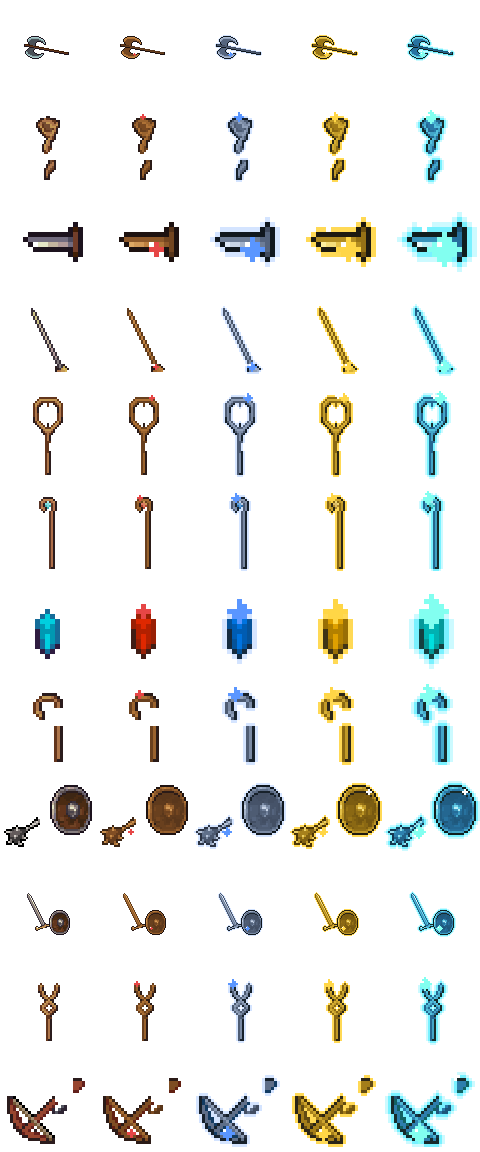
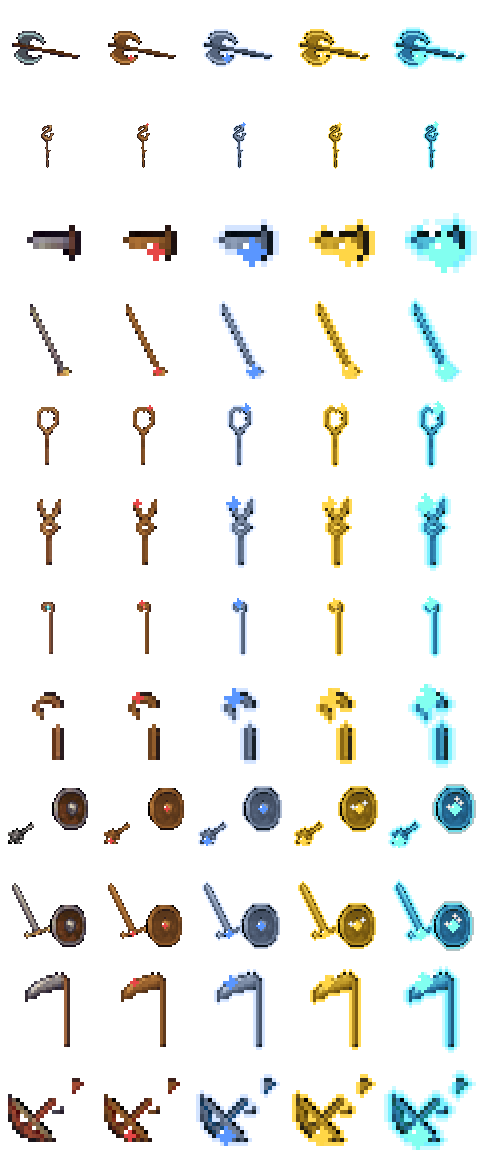
무기: 방패를 따로 떼어 안 돌게, 무기·방패 크기 축소, 마법 직업 무기 교체(구슬 하나뿐이던 수정 지팡이 → 지팡이 모양, 흑마법사 장식 지팡이, 소환사 낫, 연금술사 포크 지팡이)
Claude-Session: https://claude.ai/code/session_01HhJ2NoNCjk5kaA3GWL7UDs

diff --git a/public/index.html b/public/index.html
@@ -22,8 +22,8 @@
 html.big{--fs:17px;--fs-s:15px;--fs-h:18px;--fs-talk:19px}
 .jic{display:inline-block;width:1.5em;height:1.5em;vertical-align:middle;background:url(art/jobs.png?v=1) 0 0/1200% 100%;background-position:calc(var(--i)*100%/11) 0;image-rendering:pixelated}
 .big .jic{width:34px;height:34px}.wstep{display:flex;align-items:center;justify-content:space-between;gap:2px;margin-top:12px}.wstep>div{position:relative;display:flex;flex-direction:column;align-items:center;flex:1;padding:4px 0;border:2px solid transparent;border-radius:10px;opacity:.55}.wstep>div.done{opacity:.85}.wstep>div.on{opacity:1;border-color:var(--gold);background:rgba(255,184,77,.14)}.wstep .wic{width:58px;height:58px}.wstep b{font-size:11px}.wstep small{font-size:10px;opacity:.8}.wstep i{position:absolute;top:-8px;font-style:normal;font-size:10px;font-weight:800;background:var(--gold);color:#2b1b3a;border-radius:6px;padding:0 5px}.wstep i.nx{background:#9fd0ff}.wstep em{font-style:normal;opacity:.5}
-.wbg{background-image:url(art/weapons_big.png?v=1)!important}
-.wic{display:inline-block;width:96px;height:96px;background:url(art/weapons.png?v=2) 0 0/500% 1200%;background-position:calc(var(--t)*100%/4) calc(var(--r)*100%/11);image-rendering:pixelated;flex:none}
+.wbg{background-image:url(art/weapons_big.png?v=2)!important}
+.wic{display:inline-block;width:96px;height:96px;background:url(art/weapons_big.png?v=2) 0 0/500% 1200%;background-position:calc(var(--t)*100%/4) calc(var(--r)*100%/11);image-rendering:pixelated;flex:none}
 .sic{display:inline-block;width:26px;height:26px;vertical-align:middle;background:url(art/skills.png?v=2) 0 0/1500% 1200%;background-position:calc(var(--c)*100%/14) calc(var(--r)*100%/11);image-rendering:pixelated}
 .jgrid{display:grid;grid-template-columns:repeat(3,1fr);gap:6px}.jcard{display:flex;flex-direction:column;align-items:center;gap:2px;padding:8px 4px;border:2px solid var(--line,#5a4a78);border-radius:10px;background:transparent;color:inherit;font:inherit;text-align:center}.jcard .jic{width:32px;height:32px}.jcard b{font-size:13px}.jcard span{font-size:10px;opacity:.75;line-height:1.25}.jcard.on{border-color:#ffb84d;background:rgba(255,184,77,.18)}
 html.lowfx *,html.lowfx *::before,html.lowfx *::after{transition-duration:0s!important;animation-duration:0s!important}
@@ -1612,7 +1612,7 @@ const xJobGrid = sel => `<div class="jgrid">${Object.entries(XJ).map(([k, j]) =>
 /*XT*/const XT = {"warrior":[["차지",[["강타","d","fist"],["차지 베기","c","sword"],["대지 가르기","D","rock"],["분노의 일격","d","fire"],["극한 차지","c","bolt"]]],["근성",[["단단한 피부","P:def","shield"],["되받아치기","d","spear"],["불굴","P:hp","heart"],["피의 갈증","P:vamp","drop"],["전장의 포효","b","trumpet"]]],["도끼술",[["회전 베기","D","swirl"],["투척 도끼","d","axe"],["파쇄","W","hammer"],["학살자","d","skull"],["폭풍 도끼","D","cloud"]]]],"black":[["화염",[["불꽃탄","d","fire"],["화염구","D","fireball"],["불씨","F","ember"],["지옥불","D","skull"],["메테오","D","rock"]]],["냉기와 번개",[["서리 화살","d","arrow"],["얼음 창","d","spear"],["번개","d","bolt"],["연쇄 번개","D","chain"],["눈보라","S","ice"]]],["암흑",[["마력 흡수","M","moon"],["약점 간파","w","eye"],["암흑 구체","d","orb"],["공허의 손","Z","claw"],["마력 폭주","P:mag","star"]]]],"thief":[["연속",[["찌르기","d","dagger"],["이중 베기","d","cross2"],["칼춤","D","swirl"],["연환","d","chain"],["난도질","c","claw"]]],["급소",[["약점 노리기","P:crit","eye"],["출혈","F","drop"],["급소 찌르기","c","arrow"],["처형자","d","skull"],["피 웅덩이","f","bubble"]]],["그림자",[["재빠른 발","P:spd","wing"],["연막","w","cloud"],["그림자 걸음","x","ghost"],["훔치기","d","coin"],["뒤잡기","Z","fist"]]]],"bard":[["전투가",[["용기의 노래","B","trumpet"],["승리의 행진","B","flag"],["전장의 북소리","X","drum"],["불꽃의 변주","D","fire"],["영웅의 서사시","B","crown"]]],["안식가",[["수호의 노래","G","harp"],["자장가","H","moon"],["평온의 선율","H","note"],["되살림의 화음","r","heart"],["별빛 합창","H","star"]]],["풍자",[["불협화음","w","note1"],["도발의 곡","s","wave"],["흥겨운 춤","X","wing"],["앙코르","B","burst"],["대합창","D","bell"]]]],"time":[["가속",[["서두르기","x","arrow"],["연속 가속","X","chain"],["시간 도약","x","bolt"],["가속 영역","X","wave"],["질주","P:spd","wing"]]],["감속",[["늦추기","s","hourglass"],["정지","Z","clock"],["늪 같은 시간","S","swirl"],["시간 정체","S","orb"],["영원한 정오","D","sun"]]],["시간 조작",[["되감기","h","cross"],["예지","P:def","eye"],["시계 소환","Z","bell"],["시간 균열","d","burst"],["시간 정지","X","star"]]]],"alch":[["약화",[["산성 플라스크","d","flask"],["독 병","F","tube"],["불안정 용액","w","bubble"],["부식","W","drop"],["약점 증폭","w","eye"]]],["혼합",[["응급 물약","h","cross"],["마력 물약","M","orb"],["혼합 약","h","swirl"],["엘릭서","H","star"],["변이약","B","skull"]]],["폭발물",[["폭죽탄","d","bomb"],["점착 폭탄","s","mine"],["연쇄 반응","D","chain"],["황금 폭발","d","burst"],["연금 대폭발","D","rocket"]]]],"white":[["회복",[["치유","h","drop"],["큰 치유","h","cross"],["집단 치유","H","flower"],["신성한 비","H","cloud"],["기적의 손길","h","star"]]],["부활",[["되살리기","r","wing"],["가호","P:hp","heart"],["완전 소생","r","crown"],["전체 소생","H","orb"],["천사의 숨결","H","wave"]]],["성광",[["성광탄","d","burst"],["정화","H","sun"],["빛의 장막","G","shield"],["심판의 빛","D","spear"],["광휘의 후광","B","bell"]]]],"druid":[["재생",[["새싹","h","leaf"],["재생의 숲","H","tree"],["뿌리 속박","s","chain"],["생명의 나무","h","flower"],["만개","H","sun"]]],["자연",[["자연 보호막","G","leaf"],["이슬","h","drop"],["독 제거","H","cross"],["태양의 은총","B","burst"],["대지의 축복","P:hp","heart"]]],["야수",[["가시 덩굴","d","spear"],["곰의 가죽","g","paw"],["늑대의 울음","B","wave"],["독수리의 눈","P:crit","eye"],["야생의 화신","D","claw"]]]],"cleric":[["보호",[["수호의 기도","G","cross"],["성스러운 방패","g","tower"],["대신 맞기","g","orb"],["피해 흡수 막","G","bubble"],["불가침","P:def","shield"]]],["정화",[["해제","H","wave"],["축복","B","sun"],["안식","G","moon"],["순백의 종","H","flag"],["구원의 빛","r","star"]]],["응징",[["철퇴","d","hammer"],["응징","d","fist"],["신벌","d","bolt"],["성스러운 낙인","w","star"],["심판의 종","D","bell"]]]],"knight":[["도발",[["도발","g","trumpet"],["방패 치기","d","fist"],["전열","G","chain"],["불굴의 외침","b","flag"],["요새","P:def","shield"]]],["수호",[["막아서기","g","tower"],["방어 태세","g","bubble"],["반격 태세","d","spear"],["수호의 서약","G","crown"],["철벽","P:hp","heart"]]],["검술",[["베기","d","sword"],["돌격","D","arrow"],["방패 돌진","Z","shield"],["정의의 칼날","c","sun"],["기사의 일격","c","burst"]]]],"summon":[["정령",[["불 정령","d","fire"],["물 정령","d","drop"],["바람 정령","D","swirl"],["대지 정령","d","rock"],["정령왕","D","crown"]]],["야수",[["늑대 소환","d","paw"],["곰 소환","g","claw"],["독수리 소환","D","wing"],["호박 유령 소환","d","ghost"],["용 소환","D","fireball"]]],["계약",[["소환수 강화","P:mag","star"],["마력 연결","M","chain"],["합체 공격","c","burst"],["송환","H","orb"],["계약의 폭주","B","skull"]]]],"gadget":[["포탑",[["소형 포탑","d","gear"],["보조 포탑","G","tower"],["레이저 포탑","d","bolt"],["포탑 증설","P:atk","fist"],["요새 포대","D","rocket"]]],["함정",[["덫 설치","s","chain"],["지뢰","d","mine"],["전기 그물","S","wave"],["연쇄 함정","D","swirl"],["대지 폭파","D","burst"]]],["폭탄",[["수류탄","d","bomb"],["접착탄","s","bubble"],["연막탄","w","cloud"],["시한폭탄","c","bomb"],["집중 포화","D","arrow"]]]]};/*XT-END*/
 const xIc = o => `<span class="sic" style="--c:${o.i};--r:${ORDER_J.indexOf(o.job)}"></span>`;
 const ORDER_J = ['warrior', 'black', 'thief', 'bard', 'time', 'alch', 'white', 'druid', 'cleric', 'knight', 'summon', 'gadget'];
-/*XW*/const XW = {"warrior":[24,52,54,50,"melee"],"black":[24,53,23,28,"cast"],"thief":[19,47,12,45,"melee"],"bard":[22,40,8,11,"melee"],"time":[22,52,27,23,"cast"],"alch":[24,56,20,27,"cast"],"white":[23,33,23,26,"cast"],"druid":[37,59,32,40,"cast"],"cleric":[21,51,47,32,"melee"],"knight":[35,46,8,11,"melee"],"summon":[23,51,19,29,"cast"],"gadget":[29,59,44,41,"bow"]};/*XW-END*/
+/*XW*/const XW = {"warrior":[24,52,46,51,"melee",0],"black":[22,49,26,16,"cast",0],"thief":[19,47,14,46,"melee",0],"bard":[22,40,12,19,"melee",0],"time":[22,52,26,31,"cast",0],"alch":[23,51,20,35,"cast",0],"white":[24,56,21,35,"cast",0],"druid":[37,59,33,45,"cast",0],"cleric":[11,56,19,47,"melee",1],"knight":[23,44,12,20,"melee",1],"summon":[25,51,15,36,"cast",0],"gadget":[29,59,40,46,"bow",0]};/*XW-END*/
 const XWN = { warrior: '전투 도끼', black: '구부러진 지팡이', thief: '단검', bard: '레이피어', time: '고리 지팡이', alch: '연금 지팡이', white: '수정 지팡이', druid: '나무 지팡이', cleric: '철퇴와 방패', knight: '롱소드와 방패', summon: '다이아 지팡이', gadget: '석궁' }, XWT = ['기본', '청동', '강철', '황금', '미스릴'], XWC = [[150, 1], [500, 2], [1500, 4], [4000, 8]];   // 강화 비용: 골드 · 마력석
 const xRand = a => a[Math.floor(Math.random() * a.length)];
 function xEx(){ me.ex = me.ex || { exp: 0, d: '', n: 0 }; if (me.ex.d !== todayKey()){ me.ex.d = todayKey(); me.ex.n = 0; } return me.ex; }
@@ -1773,7 +1773,7 @@ const XCW = 384, XCH = 216, XGLY = { sword: 'slash', axe: 'slash', dagger: 'slas
 const xFxKind = sk => !sk ? 'slash' : sk.t === 'heal' || sk.t === 'revive' ? 'heal' : sk.t === 'buff' || sk.t === 'mp' ? 'buff' : sk.t === 'deb' ? 'debuff' : XGLY[sk.g] || 'boom';
 const XFS = [[[110, 152]], [[130, 130], [96, 178]], [[138, 118], [100, 154], [138, 190]]], XPS = [[284, 148], [322, 114], [332, 180]], XBOSS_AT = [104, 204];
 let xRaf = 0, xBgs = {};
-let xWpnImg = null; function xWpnSheet(){ if (!xWpnImg){ xWpnImg = new Image(); xWpnImg.src = 'art/weapons.png?v=2'; } return xWpnImg; }
+let xWpnImg = null; function xWpnSheet(){ if (!xWpnImg){ xWpnImg = new Image(); xWpnImg.src = 'art/weapons.png?v=3'; } return xWpnImg; }
 let xLpcImg = null; function xLpcSheet(){ if (!xLpcImg){ xLpcImg = new Image(); xLpcImg.src = 'art/monsters_lpc.png?v=2'; } return xLpcImg; }
 function xBg(i){   // 지역 배경: 하늘 · 먼 산 · 중간 풍경 · 땅 · 안개 (한 번만 그려 두고 계속 써요)
   if (xBgs[i]) return xBgs[i]; const R = XRG[i], c = document.createElement('canvas'); c.width = XCW; c.height = XCH; const g = c.getContext('2d'), P = R.pal, H = 122;
@@ -1892,6 +1892,7 @@ function xWeapon(g, u, ox, oy, now){   // 파티 캐릭터가 든 무기 (강화
   const [ang, dx, dy] = on ? xPose(wa.k, p) : [0, 0, 0], sheetX = (u.wp || 0) * 64, sheetY = ORDER_J.indexOf(u.job) * 64, draw = (a, al) => { g.save(); g.globalAlpha *= al; g.translate(ox + W[0], oy + W[1]); g.rotate(a * Math.PI / 180); g.translate(-W[0] + dx, -W[1] + dy); g.drawImage(wi, sheetX, sheetY, 64, 64, 0, 0, 64, 64); g.restore(); };
   if (sw){ const prev = xPose(wa.k, Math.max(0, p - .035))[0]; if (Math.abs(prev - ang) > 6) [[.035 * 3, .12], [.035 * 2, .2], [.035, .32]].forEach(([d, al]) => draw(xPose(wa.k, Math.max(0, p - d))[0], al)); }   // 잔상
   draw(ang, 1);
+  if (W[5]) g.drawImage(wi, (5 + (u.wp || 0)) * 64, sheetY, 64, 64, ox, oy, 64, 64);   // 방패는 돌아가지 않고 그대로
   if (sw){ const a1 = ang, a0 = xPose(wa.k, Math.max(0, p - .06))[0]; if (a0 - a1 > 12){ const tx = W[2] - W[0], ty = W[3] - W[1]; g.save(); for (let i = 0; i <= 8; i++){ const a = (a0 + (a1 - a0) * i / 8) * Math.PI / 180, rx = tx * Math.cos(a) - ty * Math.sin(a), ry = tx * Math.sin(a) + ty * Math.cos(a); g.globalAlpha = .25 + .6 * i / 8; g.fillStyle = i > 5 ? '#ffffff' : (wa.c || '#fff'); g.fillRect(Math.round(ox + W[0] + rx * .95), Math.round(oy + W[1] + ry * .95), 3, 3); } g.restore(); } }
   if (on && ['cast', 'spin', 'wand'].includes(wa.k) && p < .5){   // 끝에 힘이 모여요
     const [tx, ty] = [ox + W[2], oy + W[3] + dy], q = p / .5; g.save(); for (let i = 0; i < 7; i++){ const a = i * .9 + p * 14, r = (1 - q) * 16 + 2; g.globalAlpha = .4 + .6 * q; g.fillStyle = i % 2 ? '#ffffff' : wa.c; g.fillRect(Math.round(tx + Math.cos(a) * r), Math.round(ty + Math.sin(a) * r), 2, 2); } g.globalAlpha = .25 + .3 * q; g.fillStyle = wa.c; g.beginPath(); g.arc(tx, ty, 3 + q * 4, 0, 7); g.fill(); g.restore(); }

diff --git a/tools/iso/lpc/weapon_lpc.py b/tools/iso/lpc/weapon_lpc.py
@@ -12,19 +12,20 @@ ORDER = ['warrior', 'black', 'thief', 'bard', 'time', 'alch', 'white', 'druid', 
 M = 'spritesheets/weapon/'
 # 직업: (동작 종류 melee/bow/cast, 층 파일들 — 뒤에 깔리는 것부터)
 W = {
- 'warrior': ('melee', [M + 'blunt/waraxe/behind/walk/waraxe.png', M + 'blunt/waraxe/walk/waraxe.png']),
- 'knight': ('melee', [M + 'sword/longsword/universal_behind/walk/longsword.png', M + 'sword/longsword/walk/longsword.png', 'spritesheets/shield/round/walk.png']),
- 'thief': ('melee', [M + 'sword/dagger/behind/walk/dagger.png', M + 'sword/dagger/walk/dagger.png']),
- 'bard': ('melee', [M + 'sword/rapier/universal_behind/walk/rapier.png', M + 'sword/rapier/walk/rapier.png']),
- 'cleric': ('melee', [M + 'blunt/mace/universal_behind/walk/mace.png', M + 'blunt/mace/walk/mace.png', 'spritesheets/shield/round/walk.png']),
- 'black': ('cast', [M + 'magic/gnarled/universal/background/walk/gnarled.png', M + 'magic/gnarled/universal/foreground/walk/gnarled.png']),
- 'white': ('cast', [M + 'magic/crystal/universal/background/walk/crystal.png', M + 'magic/crystal/universal/foreground/walk/crystal.png']),
- 'time': ('cast', [M + 'magic/loop/universal/background/walk/loop.png', M + 'magic/loop/universal/foreground/walk/loop.png']),
- 'alch': ('cast', [M + 'magic/simple/background/walk/simple.png', M + 'magic/simple/foreground/walk/simple.png']),
- 'druid': ('cast', [M + 'polearm/cane/male/walk/cane.png']),
- 'summon': ('cast', [M + 'magic/diamond/universal/background/walk/diamond.png', M + 'magic/diamond/universal/foreground/walk/diamond.png']),
- 'gadget': ('bow', [M + 'ranged/crossbow/background/walk/crossbow.png', M + 'ranged/crossbow/foreground/walk/crossbow.png']),
+ 'warrior': ('melee', [M + 'blunt/waraxe/behind/walk/waraxe.png', M + 'blunt/waraxe/walk/waraxe.png'], None),
+ 'knight': ('melee', [M + 'sword/longsword/universal_behind/walk/longsword.png', M + 'sword/longsword/walk/longsword.png'], 'spritesheets/shield/round/walk.png'),
+ 'thief': ('melee', [M + 'sword/dagger/behind/walk/dagger.png', M + 'sword/dagger/walk/dagger.png'], None),
+ 'bard': ('melee', [M + 'sword/rapier/universal_behind/walk/rapier.png', M + 'sword/rapier/walk/rapier.png'], None),
+ 'cleric': ('melee', [M + 'blunt/mace/universal_behind/walk/mace.png', M + 'blunt/mace/walk/mace.png'], 'spritesheets/shield/round/walk.png'),
+ 'black': ('cast', [M + 'magic/s/universal/background/walk/s.png', M + 'magic/s/universal/foreground/walk/s.png'], None),
+ 'white': ('cast', [M + 'magic/simple/background/walk/simple.png', M + 'magic/simple/foreground/walk/simple.png'], None),
+ 'time': ('cast', [M + 'magic/loop/universal/background/walk/loop.png', M + 'magic/loop/universal/foreground/walk/loop.png'], None),
+ 'alch': ('cast', [M + 'magic/diamond/universal/background/walk/diamond.png', M + 'magic/diamond/universal/foreground/walk/diamond.png'], None),
+ 'druid': ('cast', [M + 'polearm/cane/male/walk/cane.png'], None),
+ 'summon': ('cast', [M + 'polearm/scythe/universal_behind/walk/scythe.png', M + 'polearm/scythe/walk/scythe.png'], None),
+ 'gadget': ('bow', [M + 'ranged/crossbow/background/walk/crossbow.png', M + 'ranged/crossbow/foreground/walk/crossbow.png'], None),
 }
+SCALE = .74; SSCALE = .84     # 무기·방패 크기 (캐릭터에 비해 너무 커서 줄여요)
 # 단계: 금속 색 띠(어두움→밝음), 보석 색 hue(0~1)
 RAMP = [None,
  [(58, 36, 20), (122, 74, 34), (184, 122, 58), (224, 170, 102)],      # 청동
@@ -32,11 +33,21 @@ RAMP = [None,
  [(74, 52, 8), (160, 122, 24), (224, 184, 56), (255, 240, 160)],      # 황금
  [(20, 56, 80), (42, 120, 168), (90, 208, 232), (234, 252, 255)]]     # 미스릴
 GEM = [None, .03, .58, .12, .5]
-need = sorted({f for _, (k, L) in W.items() for f in L if not os.path.exists(os.path.join(LPC, f))})
+need = sorted({f for _, (k, L, sh) in W.items() for f in L + ([sh] if sh else []) if not os.path.exists(os.path.join(LPC, f))})
 if need: subprocess.run(['git', '-C', LPC, 'sparse-checkout', 'add', '--skip-checks', *need], check=True)
 def frame(f):
     a = np.array(Image.open(os.path.join(LPC, f)).convert('RGBA')); y = ROWS['left'] * 64
     return a[y:y + 64, 0:64] if y + 64 <= a.shape[0] else np.zeros((64, 64, 4), np.uint8)
+def scale_about(a, pv, sc):
+    f = a.astype(np.float32); al = f[..., 3:4] / 255; pm = np.concatenate([f[..., :3] * al, f[..., 3:4]], axis=2)
+    n = max(1, round(64 * sc)); chans = [np.array(Image.fromarray(np.clip(pm[..., k], 0, 255).astype(np.uint8)).resize((n, n), Image.LANCZOS)).astype(np.float32) for k in range(4)]
+    out = np.stack(chans, axis=2); al2 = out[..., 3:4] / 255; rgb = np.where(al2 > .01, out[..., :3] / np.maximum(al2, .01), 0)
+    res = np.zeros((64, 64, 4), np.uint8); crisp = np.where(out[..., 3] > 105, 255, 0)
+    ox, oy = int(round(pv[0] - pv[0] * sc)), int(round(pv[1] - pv[1] * sc))
+    for y in range(n):
+        for x in range(n):
+            if crisp[y, x] and 0 <= x + ox < 64 and 0 <= y + oy < 64: res[y + oy, x + ox] = (*np.clip(rgb[y, x], 0, 255).astype(np.uint8), 255)
+    return res
 def lerp_ramp(r, l):
     t = max(0, min(.999, l / 255)) * (len(r) - 1); i = int(t); f = t - i
     return [int(r[i][k] + (r[i + 1][k] - r[i][k]) * f) for k in range(3)]
@@ -70,23 +81,33 @@ def tier(a, n, tip, hilt, kind):
             if 1 <= sx < 63 and 1 <= sy < 63:
                 for ddx, ddy in ((0, 0), (1, 0), (-1, 0), (0, 1), (0, -1)): o[sy + ddy, sx + ddx] = (255, 255, 255, 255 if (ddx, ddy) == (0, 0) else 170)
     return o
-sheet = np.zeros((64 * 12, 64 * 5, 4), np.uint8); XW = {}
-for ji, job in enumerate(ORDER):
-    kind, files = W[job]; base = np.zeros((64, 64, 4), np.uint8)
+sheet = np.zeros((64 * 12, 64 * 10, 4), np.uint8); XW = {}; comp = {}
+def merge(files):
+    base = np.zeros((64, 64, 4), np.uint8)
     for f in files:
         a = frame(f); al = a[..., 3:4] / 255.0; base[..., :3] = (a[..., :3] * al + base[..., :3] * (1 - al)).astype(np.uint8); base[..., 3] = np.maximum(base[..., 3], a[..., 3])
+    return base
+for ji, job in enumerate(ORDER):
+    kind, files, shf = W[job]; base = merge(files)
     ys, xs = np.nonzero(base[..., 3] > 0)
-    if len(ys) == 0: print('무기가 안 보여요:', job); XW[job] = [32, 40, 20, 20, kind]; continue
+    if len(ys) == 0: print('무기가 안 보여요:', job); XW[job] = [32, 40, 20, 20, kind, 0]; continue
     low = ys >= np.percentile(ys, 75); px, py = int(xs[low].mean()), int(ys[low].mean())     # 손잡이(아래쪽)
     d = (xs - px) ** 2 + (ys - py) ** 2; k = int(d.argmax()); tx, ty = int(xs[k]), int(ys[k])    # 끝
-    XW[job] = [px, py, tx, ty, kind]
+    base = scale_about(base, (px, py), SCALE); tx, ty = int(round(px + (tx - px) * SCALE)), int(round(py + (ty - py) * SCALE))
+    XW[job] = [px, py, tx, ty, kind, 1 if shf else 0]
+    sh = None
+    if shf:
+        sh = merge([shf]); sy_, sx_ = np.nonzero(sh[..., 3] > 0); cx, cy = int(sx_.mean()), int(sy_.mean()); sh = scale_about(sh, (cx, cy), SSCALE)
     for n in range(5):
-        c = tier(base, n, (tx, ty), (px, py), kind)
-        sheet[ji * 64:(ji + 1) * 64, n * 64:(n + 1) * 64] = c
+        c = tier(base, n, (tx, ty), (px, py), kind); sheet[ji * 64:(ji + 1) * 64, n * 64:(n + 1) * 64] = c; cc = c.copy()
+        if sh is not None:
+            c2 = tier(sh, n, (cx, cy), (cx, cy), 'melee'); sheet[ji * 64:(ji + 1) * 64, (5 + n) * 64:(6 + n) * 64] = c2
+            al = c2[..., 3:4] / 255.0; cc[..., :3] = (c2[..., :3] * al + cc[..., :3] * (1 - al)).astype(np.uint8); cc[..., 3] = np.maximum(cc[..., 3], c2[..., 3])
+        comp[(ji, n)] = cc
 Image.fromarray(sheet).save(os.path.join(ROOT, 'public', 'art', 'weapons.png'))
 big = Image.new('RGBA', (96 * 5, 96 * 12), (0, 0, 0, 0))
 for ji in range(12):
-    cells = [sheet[ji * 64:(ji + 1) * 64, n * 64:(n + 1) * 64] for n in range(5)]; ys, xs = np.nonzero(np.max([c[..., 3] for c in cells], axis=0) > 0)
+    cells = [comp[(ji, n)] for n in range(5)]; ys, xs = np.nonzero(np.max([c[..., 3] for c in cells], axis=0) > 0)
     if len(ys) == 0: continue
     y0, y1, x0, x1 = ys.min(), ys.max() + 1, xs.min(), xs.max() + 1; k = max(1, min(96 // (y1 - y0), 96 // (x1 - x0)))
     for n, c in enumerate(cells):
@@ -97,5 +118,5 @@ if '/*XW*/' in s: s = re.sub(r'/\*XW\*/.*?/\*XW-END\*/', lambda m: '/*XW*/' + js
 else: s = s.replace('const xRand = a =>', '/*XW*/' + js + '/*XW-END*/\nconst xRand = a =>', 1)
 open(p, 'w', encoding='utf-8').write(s)
 if len(sys.argv) > 2:
-    pv = Image.new('RGBA', (64 * 5, 64 * 12), (70, 80, 100, 255)); pv.alpha_composite(Image.fromarray(sheet)); pv.resize((pv.width * 2, pv.height * 2), Image.NEAREST).save(sys.argv[2])
+    pv = Image.new('RGBA', (64 * 10, 64 * 12), (70, 80, 100, 255)); pv.alpha_composite(Image.fromarray(sheet)); pv.resize((pv.width * 2, pv.height * 2), Image.NEAREST).save(sys.argv[2])
 print(XW)
